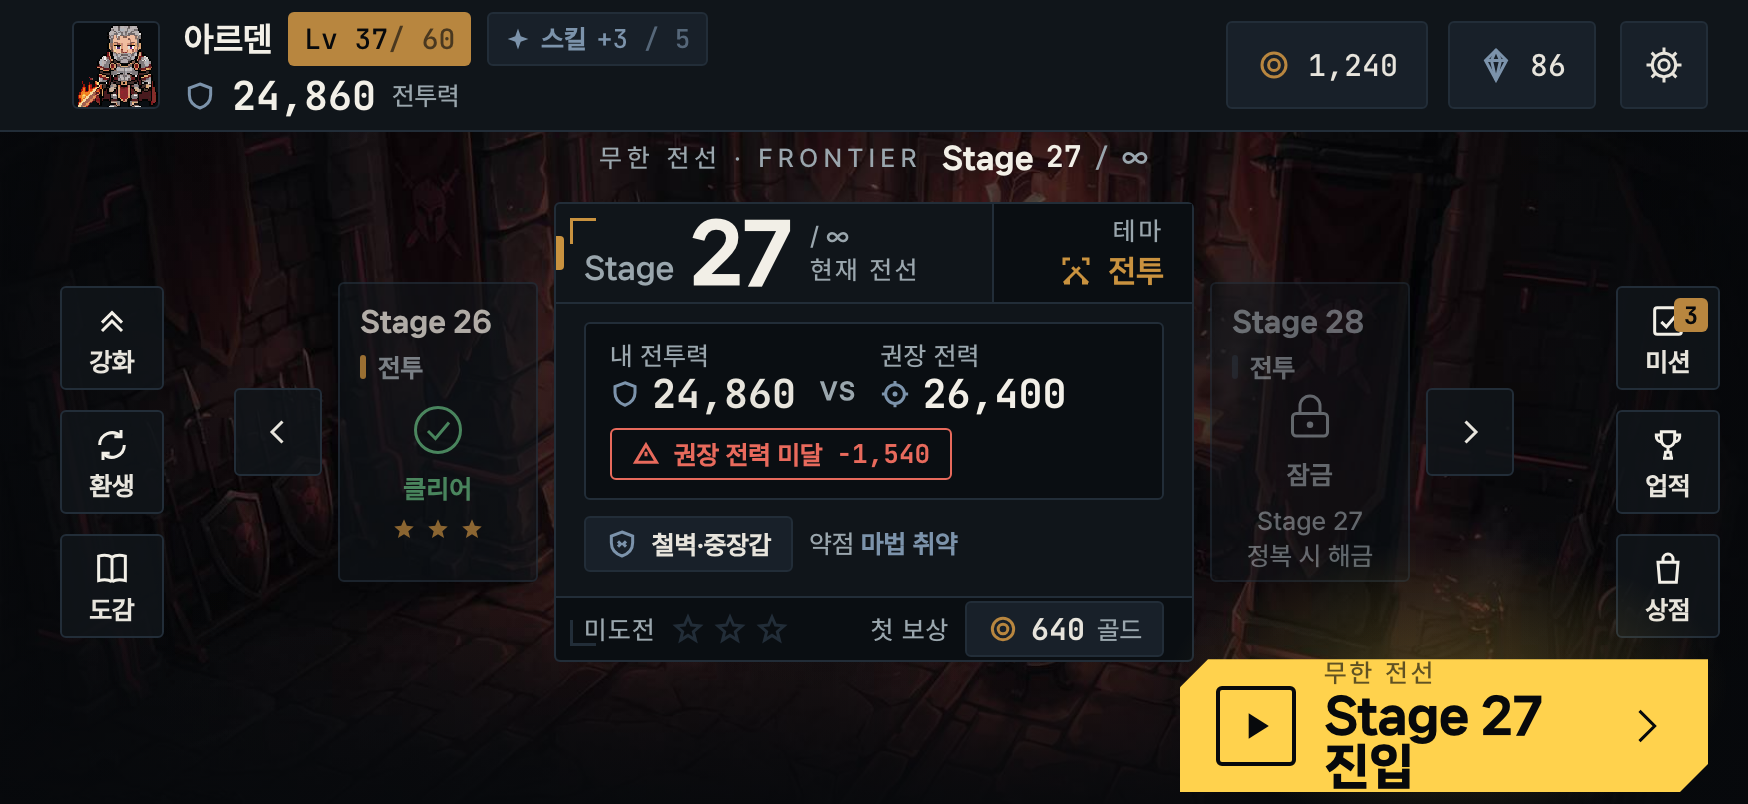
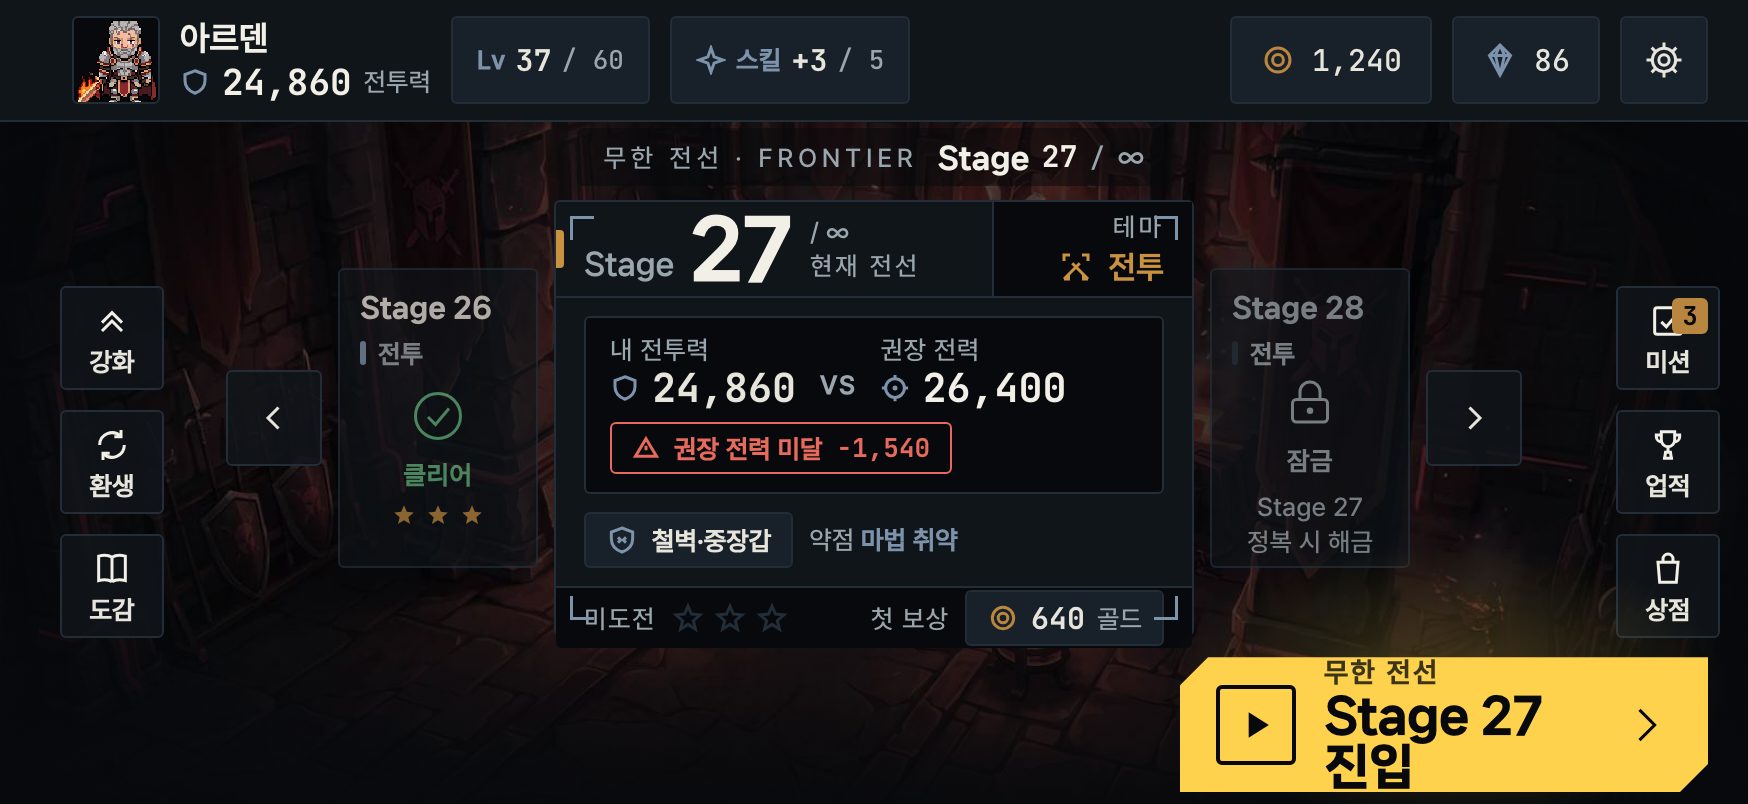
[mockup] MainHub v2 (검증 펀치리스트 8항 반영·상단바 통일·엘리베이션 규율)

diff --git a/mainhub-mockup.html b/mainhub-mockup.html
@@ -2,29 +2,44 @@
 <html lang="ko">
 <head>
 <meta charset="utf-8">
-<title>infinite-warfield — MainHub · device-native v1 (874×402 pt)</title>
+<title>infinite-warfield — MainHub · device-native v2 (874×402 pt)</title>
 <style>
 /* =====================================================================
-   infinite-warfield — MAIN HUB · DEVICE-NATIVE v1
+   infinite-warfield — MAIN HUB · DEVICE-NATIVE v2
    ui-artist · 2026-07-15
    ---------------------------------------------------------------------
-   WHY THIS FILE: r4(1080/2349px 저작)는 목업 px → 기기 pt 로 ×0.37 축소돼
-   기기에서 본문 6~9pt·터치 19~36pt 로 붕괴(스케일 갭의 근원). 이 파일은
-   그 갭을 0 으로 만든다 — 캔버스 = 874×402 pt = UITK Reference Resolution
-   = 기기 논리 pt(iPhone 12 Pro Max 시뮬 ScaleWithScreenSize Ref874×402 Match=1).
-   ★ 여기 모든 px = 1pt = Unity USS px = 기기 pt (변환 없음). 값 = 이 파일이 소스.
+   WHY v2: v1 을 두 독립검증(ui-critic 적대비평 + ux-reviewer) 펀치리스트로 교정.
+   새로 안 그리고 v1 을 고침. 유지=크림골드 단일비컨·정보위계·상태분기·매트플랫 v3·전장 dim.
 
-   내용/IA = mainhub-v3-r4.html 5요소 그대로(사이드레일·헤더·캐러셀·CTA +
-   카드 하단 정보행·잠금카드·카드 2단 헤더). 바뀐 건 좌표계뿐(px→pt·플로어 준수).
+   변경(펀치리스트 대응):
+   1) 상단바 통일 — Lv·스킬·재화·톱니 = 공통 44pt·단일 수직중심 스냅. Lv 솔리드
+      브론즈 채움 해제(Lv·스킬 둘 다 다크 raise+보더). 톱니 히트 44.
+   2) 엘리베이션 규율 — 오프토큰 #0A0E12 제거. 램프 4단만(base/panel/raise/line).
+      리세스 웰 = base(패널 한 단계 아래). 칩 깊이방향 전화면 단일(칩=raise).
+   3) 코너틱·브론즈 예산 — 코너틱 세트 통일(4코너 동일 색·두께=slate, 냉 HUD 오너먼트,
+      warm 예산 밖). 상단좌 브론즈 중복(틱 warm→slate) 해소, spine(tc)만 warm 마커.
+      브론즈 풀강도 6군데(badge·spine·theme·cleared별·reward코인·wallet코인).
+   4) 우측 플랭킹·페이저 — peek 딤 대칭(둘 다 .74, 잠금 딤은 콘텐츠색이 담당).
+      nav 화살표 48pt(≥48). 카드 lift 로 우하단 CTA 뭉침 완화.
+   5) 아이콘 — 라인 기본 통일. fill 예약=①CTA play(단일 액션 솔리드) ②별 상태
+      (채움=획득/윤곽=미획득) ③아이콘 내부 미세 디테일 점. 스킬 스파클 fill→line.
+      전 아이콘 stroke 1.5 non-scaling(동일 스트로크). 별=SVG stroke(폰트글리프 0).
+   6) 13pt 하한+대비 — badge 12→13. 분모(/60·/5) opacity 트릭 제거→dim 풀불투명(≥4.5).
+      FRONTIER 브레드크럼 뒤 미세 스크림(raw 전장 저대비 해소). CTA 캡션 14·대비↑.
+   7) 세로 리듬 — focus 카드 230→218, carousel lift → 카드 하단↔CTA 클리어런스 확보
+      (바닥에 안 붙임). 402pt 에 안 욱여넣음.
+   8) 세이프에어리어 — 배경 full-bleed. 액션(topbar·rail·carousel·cta)=엣지앵커
+      오버레이 컨테이너 + flex 자식(절대좌표 자식배치 금지). safe-area 인셋은
+      앵커 컨테이너 패딩으로(--safe-l = leading-edge 노치). ↓ [SAFE] 주석 참조.
 
-   AESTHETIC LOCK (art-bible v3 SoT · 아트디렉션 v3 '긴장/Tactical Field Ops'):
+   AESTHETIC LOCK (art-bible v3 SoT · '긴장/Tactical Field Ops'):
      base #07090C · 매트 플랫 · 1px 헤어라인 #222D38 · radius 3 · 깊이=명도 램프 ·
      크림골드 #FFD24D = 주CTA 단일 비컨 · 브론즈 ≤6 · 이모지 0.
      box-shadow / css-gradient / blur / clip-path = UITK 미지원 →
        이 목업의 그런 표현은 전부 [BAKE] 주석 = Unity 서 베이크드 스프라이트/9슬라이스.
 
    PT FLOORS (§ui-scale-contract): 본문 ≥15 · 라벨/부제 ≥13 · 터치 ≥44 · 컨트롤:텍스트 ≥2.4.
-   폰트-클립 금지: 텍스트 담는 요소엔 고정 height 금지 → min-height + padding(자연높이 따라 성장).
+   폰트-클립 금지: 텍스트 담는 요소엔 고정 height 금지 → min-height + padding.
    ===================================================================== */
 @font-face{font-family:'NanumSquareNeo';font-weight:800;font-style:normal;src:url('_fonts/NanumSquareNeoBL.woff2') format('woff2');font-display:block;}
 @font-face{font-family:'NanumSquareNeo';font-weight:700;font-style:normal;src:url('_fonts/NanumSquareNeoEB.woff2') format('woff2');font-display:block;}
@@ -32,7 +47,9 @@
 @font-face{font-family:'JetBrainsMono';font-weight:500;font-style:normal;src:url('_fonts/JetBrainsMono-500.woff2') format('woff2');font-display:block;}
 @font-face{font-family:'Pretendard';font-weight:500;font-style:normal;src:url('_fonts/Pretendard-Medium.woff2') format('woff2');font-display:block;}
 :root{
-  --base:#07090C; --panel:#10151A; --raise:#182029; --line:#222D38; --sunken:#0A0E12;
+  /* ★ 엘리베이션 램프 = 4단만 (art-bible §3). #0A0E12(오프토큰) 폐기. */
+  --base:#07090C; --panel:#10151A; --raise:#182029; --line:#222D38;
+  /* 리세스 웰(sunken slot) = 담는 컨테이너보다 한 단계 아래 명도. 패널(10151A) 안의 웰 = base(07090C). */
   --head:#F2EFE7; --body:#E7E4DC; --dim:#9AA6AD;
   --cta:#FFD24D; --cta-ink:#07090C; --bronze:#B8863F; --slate:#7C93AB;
   --threat:#E86A5C; --success:#5FB07A;
@@ -44,7 +61,7 @@
   --safe-l:16px; /* leading-edge inset(노치/라운드코너) · 1px=1pt */
 }
 *{box-sizing:border-box;margin:0;padding:0;}
-/* ★ 캔버스 = 874×402 pt. 1px = 1pt. r4 의 stage/scale 래퍼 폐기(스케일 해킹 제거). */
+/* ★ 캔버스 = 874×402 pt. 1px = 1pt = Unity USS px = 기기 pt. */
 html,body{width:874px;height:402px;overflow:hidden;background:#000;}
 body{font-family:var(--f-body);-webkit-font-smoothing:antialiased;text-rendering:optimizeLegibility;}
 .frame{position:relative;width:874px;height:402px;overflow:hidden;color:var(--body);background:var(--base);}
@@ -53,8 +70,19 @@ body{font-family:var(--f-body);-webkit-font-smoothing:antialiased;text-rendering
 .inf{font-family:var(--f-body);font-weight:500;}
 .ico{display:block;flex:none;}
 .ico svg{display:block;width:100%;height:100%;}
+/* 라인 기본 통일: 전 아이콘 stroke 1.5 non-scaling(렌더 크기 무관 동일 절대 스트로크). */
 .ico svg *{fill:none;stroke:currentColor;stroke-width:1.5;stroke-linecap:butt;stroke-linejoin:miter;vector-effect:non-scaling-stroke;}
+/* fill 예약(라인 기본의 예외 — 의미 있는 곳만): CTA play·별 획득상태·아이콘 내부 디테일 점. */
 .ico svg .fill{fill:currentColor;stroke:none;}
+
+/* [SAFE] ── SAFE-AREA / UITK 구조 전제 ──────────────────────────────────
+   배경(scene) = full-bleed(디바이스 끝까지). 액션 오버레이(topbar/rail/frontier/
+   carousel/cta)는 프레임 엣지에 "앵커"된 오버레이 컨테이너다. 이 목업의 position:
+   absolute + top/left/right/bottom 은 그 "엣지 앵커"의 목업 표현일 뿐 — Unity UITK
+   에선 각 오버레이가 부모(safe-area 인셋된 루트)에 flex/align 로 배치되고, 컨테이너
+   '내부' 자식은 전부 flex(절대 px 자식배치 아님). safe-area 인셋은 앵커 컨테이너의
+   padding(--safe-l 등)으로 흡수 → 어떤 노치/인셋 값에서도 구조적 무충돌.
+   ------------------------------------------------------------------ */
 
 /* ---- FULL-BLEED SCENE (Combat 테마 일러 · Stage27) ---- */
 .scene{position:absolute;inset:0;overflow:hidden;background:var(--base);}
@@ -73,67 +101,70 @@ body{font-family:var(--f-body);-webkit-font-smoothing:antialiased;text-rendering
 .vig-r{position:absolute;right:0;top:0;bottom:0;width:128px;pointer-events:none;
   background:linear-gradient(to left,rgba(7,9,12,0.70),transparent);}
 /* 중앙 포커스 암막 — 캐러셀 판독 확보 [BAKE 스프라이트] */
-.vig-focus{position:absolute;left:50%;top:222px;width:600px;height:320px;transform:translate(-50%,-50%);
+.vig-focus{position:absolute;left:50%;top:210px;width:600px;height:320px;transform:translate(-50%,-50%);
   pointer-events:none;background:radial-gradient(closest-side,rgba(7,9,12,0.56),transparent 80%);}
 
 /* ===================== TOPBAR (헤더 · 풀패널 미니바) ===================== */
+/* [SAFE] 엣지앵커 상단 오버레이. 내부 = flex(space-between). safe 인셋 = padding-left. */
 .topbar{position:absolute;top:0;left:0;right:0;min-height:60px;z-index:8;
   display:flex;align-items:center;justify-content:space-between;
-  padding:6px 20px 6px calc(20px + var(--safe-l));
+  padding:8px 20px 8px calc(20px + var(--safe-l));
   background:var(--panel);border-bottom:1px solid var(--line);}
-.cmdr{display:flex;align-items:center;gap:12px;}
-/* 프로필 = 마지막 사용 영웅(동적·목업=아르덴) · sunken 슬롯 라이트박스 + 1px 프레임.
+.cmdr{display:flex;align-items:center;gap:10px;}
+/* 프로필 = 마지막 사용 영웅(동적·목업=아르덴) · 리세스 웰(base) 라이트박스 + 1px 프레임.
    crop = arden idle/0 (120² · 불투명 bbox 27,30-84,90) head→torso 프레이밍. [터치 44 = 영웅선택 진입] */
 .avatar{position:relative;width:44px;height:44px;border:1px solid var(--line);border-radius:3px;
-  background:var(--sunken);overflow:hidden;flex:none;}
+  background:var(--base);overflow:hidden;flex:none;}
 .avatar img{position:absolute;width:84px;height:84px;left:-17px;top:-20px;image-rendering:pixelated;}
-.cmdr-txt{display:flex;flex-direction:column;gap:4px;}
-.cmdr-row1{display:flex;align-items:center;gap:8px;}
-.cmdr-name{font-family:var(--f-body);font-weight:700;font-size:17px;color:var(--head);line-height:1.1;}
-/* Lv = 스탯 레벨(max60) · 브론즈 pill(경강조). min-height=폰트-클립 방지(14pt→27). */
-.lv{display:inline-flex;align-items:center;min-height:27px;font-family:var(--f-mono);font-weight:500;font-size:14px;
-  color:var(--cta-ink);background:var(--bronze);border-radius:3px;padding:2px 8px;font-feature-settings:'tnum' 1;line-height:1.2;}
-.lv .mx{opacity:.62;}
-/* 스킬강화(max5) = 슬레이트 후퇴 chip. */
-.skl{display:inline-flex;align-items:center;gap:5px;min-height:27px;padding:2px 8px;border-radius:3px;
-  background:var(--raise);border:1px solid var(--line);}
-.skl .ico{width:13px;height:13px;color:var(--slate);}
-.skl .sk-l{font-family:var(--f-body);font-weight:700;font-size:13px;color:var(--slate);letter-spacing:.01em;line-height:1.2;}
-.skl .sv{font-family:var(--f-mono);font-weight:500;font-size:13px;color:var(--slate);font-feature-settings:'tnum' 1;line-height:1.2;}
-.skl .mx{opacity:.62;}
-.cmdr-row2{display:flex;align-items:center;gap:8px;}
-.cmdr-row2 .ico{width:16px;height:16px;color:var(--slate);}
-.cp{font-family:var(--f-mono);font-weight:700;font-size:20px;color:var(--head);font-feature-settings:'tnum' 1;line-height:1.1;}
-.cp-lbl{font-family:var(--f-body);font-weight:500;font-size:13px;color:var(--dim);align-self:flex-end;padding-bottom:2px;}
+/* identity = 이름 + 전투력(상시 노출 정체성 스탯). 2줄 블록이 44pt 칩과 공통 수직중심. */
+.cmdr-id{display:flex;flex-direction:column;justify-content:center;gap:2px;}
+.cmdr-name{font-family:var(--f-body);font-weight:700;font-size:17px;color:var(--head);line-height:1.15;}
+.cmdr-power{display:flex;align-items:center;gap:6px;}
+.cmdr-power .ico{width:15px;height:15px;color:var(--slate);}
+.cp{font-family:var(--f-mono);font-weight:700;font-size:18px;color:var(--head);font-feature-settings:'tnum' 1;line-height:1;}
+.cp-lbl{font-family:var(--f-body);font-weight:500;font-size:13px;color:var(--dim);align-self:flex-end;padding-bottom:1px;}
+/* ★ Lv·스킬 = 공통 44pt 칩(단일 수직중심). 둘 다 다크 raise+보더(솔리드 브론즈 해제).
+   칩 anatomy 통일: slate 키워드 + body 값 + dim 분모. 칩 깊이=raise(전화면 단일). */
+.lv,.skl{display:inline-flex;align-items:center;gap:5px;min-height:44px;padding:0 12px;border-radius:3px;
+  background:var(--raise);border:1px solid var(--line);flex:none;}
+.skl .ico{width:15px;height:15px;color:var(--slate);}
+.lv-k,.sk-l{font-family:var(--f-body);font-weight:700;font-size:13px;color:var(--slate);letter-spacing:.01em;line-height:1.2;}
+.lv-v,.sv{font-family:var(--f-mono);font-weight:700;font-size:15px;color:var(--body);font-feature-settings:'tnum' 1;line-height:1.2;}
+/* 분모(/60·/5) = dim 풀불투명 — opacity 트릭 폐기(대비 ≥4.5 확보). */
+.mx{font-family:var(--f-mono);font-weight:500;font-size:13px;color:var(--dim);font-feature-settings:'tnum' 1;line-height:1.2;}
 .wallet{display:flex;align-items:center;gap:10px;}
-/* 재화칩 [터치 44 = 상점/재화 진입] */
+/* 재화칩 [터치 44 = 상점/재화 진입] · 칩=raise 통일 */
 .cur{display:flex;align-items:center;gap:8px;min-height:44px;padding:0 14px;
   background:var(--raise);border:1px solid var(--line);border-radius:3px;}
 .cur .ico{width:18px;height:18px;}
 .cur.gold > .ico{color:var(--bronze);} .cur.ess > .ico{color:var(--slate);}
 .cur .val{font-family:var(--f-mono);font-weight:500;font-size:15px;color:var(--body);font-feature-settings:'tnum' 1;}
+/* 톱니 = 히트영역 44(시각 아이콘 20 유지) · 칩=raise 통일 */
 .gear{width:44px;height:44px;background:var(--raise);border:1px solid var(--line);border-radius:3px;
-  display:flex;align-items:center;justify-content:center;color:var(--body);margin-left:2px;}
+  display:flex;align-items:center;justify-content:center;color:var(--body);}
 .gear .ico{width:20px;height:20px;}
 
 /* ===================== SIDE RAILS (런처) ===================== */
+/* [SAFE] 엣지앵커 세로 오버레이. 내부 = flex column. rgba near-opaque = 5테마 배경무관 대비. */
 .rail{position:absolute;top:calc(60px + (402px - 60px)/2);transform:translateY(-50%);z-index:6;
   display:flex;flex-direction:column;align-items:center;gap:10px;}
 .rail.left{left:calc(14px + var(--safe-l));}
 .rail.right{right:14px;}
-/* 레일버튼 [터치 52 > 44 floor] · rgba near-opaque = 배경무관 대비. 아이콘+라벨 스택. */
+/* 레일버튼 [터치 52 > 44 floor] · 아이콘+라벨 스택. 씬 위 부유(near-opaque). */
 .railbtn{position:relative;width:52px;min-height:52px;background:rgba(16,21,26,0.86);border:1px solid var(--line);
   border-radius:3px;display:flex;flex-direction:column;align-items:center;justify-content:center;gap:3px;padding:4px 2px;}
 .railbtn .ico{width:20px;height:20px;color:var(--head);}
 .railbtn .rl{font-family:var(--f-body);font-weight:700;font-size:13px;color:var(--body);line-height:1.1;}
-.railbtn .badge{position:absolute;top:5px;right:5px;min-width:17px;height:17px;padding:0 4px;border-radius:3px;
+.railbtn .badge{position:absolute;top:5px;right:5px;min-width:18px;height:18px;padding:0 4px;border-radius:3px;
   background:var(--bronze);color:var(--cta-ink);display:flex;align-items:center;justify-content:center;
-  font-family:var(--f-mono);font-weight:700;font-size:12px;font-feature-settings:'tnum' 1;}
+  font-family:var(--f-mono);font-weight:700;font-size:13px;font-feature-settings:'tnum' 1;line-height:1;}
 
 /* ===================== FRONTIER LABEL (무한 전선 ∞ 진행) ===================== */
-.frontier{position:absolute;top:69px;left:50%;transform:translateX(-50%);z-index:6;
-  display:flex;flex-direction:row;align-items:baseline;gap:10px;}
-.frontier .fl{font-family:var(--f-body);font-weight:500;font-size:13px;letter-spacing:.20em;
+/* [BAKE] 브레드크럼 뒤 미세 스크림 = raw 전장 위 저대비 해소(5테마 전부 보장). Unity=정적 scrim 스프라이트. */
+.frontier{position:absolute;top:64px;left:50%;transform:translateX(-50%);z-index:6;
+  display:flex;flex-direction:row;align-items:baseline;gap:10px;
+  padding:5px 13px;border-radius:3px;background:rgba(7,9,12,0.52);}
+.frontier .fl{font-family:var(--f-body);font-weight:500;font-size:13px;letter-spacing:.18em;
   text-transform:uppercase;color:var(--dim);}
 .frontier .fv{display:flex;align-items:baseline;gap:6px;}
 .frontier .fv .nm{font-family:var(--f-disp);font-weight:800;font-size:15px;color:var(--head);letter-spacing:-.01em;line-height:1;}
@@ -142,19 +173,21 @@ body{font-family:var(--f-body);-webkit-font-smoothing:antialiased;text-rendering
 .frontier .fv .inf{font-size:15px;color:var(--dim);line-height:1;}
 
 /* ===================== CENTER — STAGE SELECT CAROUSEL ===================== */
-.carousel{position:absolute;top:216px;left:50%;transform:translate(-50%,-50%);z-index:6;
+/* [SAFE] 엣지앵커 중앙 오버레이. 내부 = flex row(nav·peek·focus·peek·nav) gap 8 대칭. */
+.carousel{position:absolute;top:209px;left:50%;transform:translate(-50%,-50%);z-index:6;
   display:flex;align-items:center;justify-content:center;gap:8px;}
-/* nav chevrons [터치 44] */
-.nav{width:44px;height:44px;flex:none;background:rgba(16,21,26,0.86);border:1px solid var(--line);border-radius:3px;
+/* nav chevrons [터치 48 ≥48] · 카드 엣지에 gap 8 로 일관 앵커(양측 동일). */
+.nav{width:48px;height:48px;flex:none;background:rgba(16,21,26,0.86);border:1px solid var(--line);border-radius:3px;
   display:flex;align-items:center;justify-content:center;color:var(--body);}
 .nav .ico{width:18px;height:18px;}
 
-/* ---- PEEK CARD (인접 스테이지 · 작게·후퇴) ---- */
+/* ---- PEEK CARD (인접 스테이지 · 작게·후퇴 · 딤 대칭) ---- */
 .peek{position:relative;width:100px;height:150px;background:rgba(16,21,26,0.80);border:1px solid var(--line);
   border-radius:3px;padding:12px 10px;display:flex;flex-direction:column;overflow:hidden;}
 .peek .pz{font-family:var(--f-disp);font-weight:800;font-size:14px;color:var(--body);letter-spacing:-.01em;line-height:1;}
 .peek .pt{display:flex;align-items:center;gap:6px;margin-top:6px;}
-.peek .pt .spine{width:3px;height:12px;background:var(--tc);border-radius:2px;}
+/* peek 테마 스핀 = 중립(slate) — warm 테마 액센트(tc)는 FOCUS(현재 스테이지) 전용(위계·브론즈 예산). */
+.peek .pt .spine{width:3px;height:12px;background:var(--slate);border-radius:2px;}
 .peek .pt .ptx{font-family:var(--f-body);font-weight:700;font-size:13px;color:var(--dim);}
 .peek .pbody{flex:1;display:flex;flex-direction:column;align-items:center;justify-content:center;gap:7px;}
 .peek .pstate-ico{width:30px;height:30px;}
@@ -162,29 +195,31 @@ body{font-family:var(--f-body);-webkit-font-smoothing:antialiased;text-rendering
 .peek .phint{font-family:var(--f-body);font-weight:500;font-size:13px;color:var(--dim);text-align:center;line-height:1.35;}
 .peek .pstars{display:flex;gap:4px;justify-content:center;}
 .peek .pstars .ico{width:13px;height:13px;}
+/* ★ 딤 대칭: cleared·locked 동일 카드 불투명(.74). 잠금의 "딤"은 콘텐츠색(dim)이 담당. */
 .peek.cleared{opacity:.74;}
 .peek.cleared .pstate-ico{color:var(--success);}
 .peek.cleared .pstate-lbl{color:var(--success);}
 .peek.cleared .pstars .ico{color:var(--bronze);}
-.peek.locked{opacity:.60;}
+.peek.locked{opacity:.74;}
 .peek.locked .pz{color:var(--dim);}
 .peek.locked .pt .spine{background:var(--line);}
 .peek.locked .pstate-ico{color:var(--dim);}
 .peek.locked .pstate-lbl{color:var(--dim);}
 
-/* ---- FOCUS CARD (프론티어 스테이지 · 풀 정보 · 초점 앵커 2.8× 폭) ---- */
-.focus{position:relative;width:320px;height:230px;background:var(--panel);border:1px solid var(--line);
+/* ---- FOCUS CARD (프론티어 스테이지 · 풀 정보 · 초점 앵커 3.2× 폭 · 218pt) ---- */
+.focus{position:relative;width:320px;height:218px;background:var(--panel);border:1px solid var(--line);
   border-radius:3px;display:flex;flex-direction:column;}
-/* HUD 코너 틱 데코(오너먼트 절제·앵귤러) — 좌측(tc 스핀 액센트 측)만 = 의도적 비대칭 [BAKE 또는 border] */
-.focus .tick{position:absolute;width:13px;height:13px;pointer-events:none;}
-.focus .tick.tl{top:7px;left:7px;border-top:1.5px solid var(--tc);border-left:1.5px solid var(--tc);}
-.focus .tick.tr{top:7px;right:7px;border-top:1.5px solid var(--tc);border-right:1.5px solid var(--tc);}
-.focus .tick.bl{bottom:7px;left:7px;border-bottom:1.5px solid var(--line);border-left:1.5px solid var(--line);}
-.focus .tick.br{bottom:7px;right:7px;border-bottom:1.5px solid var(--line);border-right:1.5px solid var(--line);}
+/* HUD 코너 틱 세트 = 4코너 동일 색(slate)·두께(1.5) — 냉 HUD 오너먼트(warm 예산 밖·배경 후퇴색).
+   [BAKE 또는 border] warm 마커는 좌측 spine(tc) 단독(상단좌 브론즈 중복 해소). */
+.focus .tick{position:absolute;width:12px;height:12px;pointer-events:none;}
+.focus .tick.tl{top:7px;left:7px;border-top:1.5px solid var(--slate);border-left:1.5px solid var(--slate);}
+.focus .tick.tr{top:7px;right:7px;border-top:1.5px solid var(--slate);border-right:1.5px solid var(--slate);}
+.focus .tick.bl{bottom:7px;left:7px;border-bottom:1.5px solid var(--slate);border-left:1.5px solid var(--slate);}
+.focus .tick.br{bottom:7px;right:7px;border-bottom:1.5px solid var(--slate);border-right:1.5px solid var(--slate);}
 /* header row (2단: zone № + 테마 세그먼트) */
-.f-head{display:flex;align-items:stretch;min-height:50px;border-bottom:1px solid var(--line);}
+.f-head{display:flex;align-items:stretch;min-height:48px;border-bottom:1px solid var(--line);}
 .f-zone{position:relative;display:flex;align-items:center;gap:10px;padding:0 14px;flex:1;}
-.f-zone .spine{position:absolute;left:0;top:16px;bottom:16px;width:4px;background:var(--tc);border-radius:0 2px 2px 0;}
+.f-zone .spine{position:absolute;left:0;top:14px;bottom:14px;width:4px;background:var(--tc);border-radius:0 2px 2px 0;}
 .f-zone .zn{display:flex;align-items:baseline;gap:7px;}
 .f-zone .zn .zpre{font-family:var(--f-disp);font-weight:700;font-size:15px;color:var(--dim);letter-spacing:-.01em;line-height:1;}
 /* znum = 초점 앵커 대형 수치. ⚠ Unity NanumSquareNeo digit '8' 글리프 깨짐 이슈(보고 플래그) — 목업은 정상 렌더. */
@@ -194,15 +229,15 @@ body{font-family:var(--f-body);-webkit-font-smoothing:antialiased;text-rendering
 .f-zone .zd .zk .inf{font-family:var(--f-body);color:var(--dim);}
 .f-zone .zd .zt{font-family:var(--f-body);font-weight:500;font-size:13px;letter-spacing:.10em;color:var(--dim);line-height:1.1;}
 .f-theme{display:flex;flex-direction:column;align-items:flex-end;justify-content:center;gap:5px;
-  padding:0 14px;background:var(--sunken);border-left:1px solid var(--line);width:100px;}
+  padding:0 14px;background:var(--base);border-left:1px solid var(--line);width:100px;}
 .f-theme .th-k{font-family:var(--f-body);font-weight:500;font-size:13px;letter-spacing:.12em;color:var(--dim);line-height:1;}
 .f-theme .th-row{display:flex;align-items:center;gap:7px;}
 .f-theme .th-ico{width:18px;height:18px;color:var(--tc);}
 .f-theme .th-lbl{font-family:var(--f-disp);font-weight:700;font-size:15px;color:var(--tc);letter-spacing:-.01em;line-height:1;}
 /* body */
-.f-body{flex:1;padding:9px 14px;display:flex;flex-direction:column;gap:8px;}
-/* power comparison — sunken slot(리세스) */
-.pwr{background:var(--sunken);border:1px solid var(--line);border-radius:3px;padding:9px 12px;
+.f-body{flex:1;padding:9px 14px;display:flex;flex-direction:column;justify-content:center;gap:9px;}
+/* power comparison — 리세스 웰(base = 패널 한 단계 아래) */
+.pwr{background:var(--base);border:1px solid var(--line);border-radius:3px;padding:9px 12px;
   display:flex;flex-direction:column;gap:7px;}
 .pwr .row{display:flex;align-items:center;gap:12px;}
 .pwr .col{display:flex;flex-direction:column;gap:3px;}
@@ -225,9 +260,9 @@ body{font-family:var(--f-body);-webkit-font-smoothing:antialiased;text-rendering
 .threat .tbadge .tl{font-family:var(--f-body);font-weight:700;font-size:13px;color:var(--body);line-height:1;}
 .threat .thint{font-family:var(--f-body);font-weight:500;font-size:13px;color:var(--dim);line-height:1.2;}
 .threat .thint b{color:var(--slate);font-weight:700;}
-/* footer: 미도전 ☆☆☆ + 첫 클리어 보상 (r4 카드 하단 정보행) */
-.f-foot{display:flex;align-items:center;justify-content:space-between;padding:0 14px;min-height:32px;
-  border-top:1px solid var(--line);background:var(--sunken);border-radius:0 0 3px 3px;}
+/* footer: 미도전 ☆☆☆ + 첫 클리어 보상 */
+.f-foot{display:flex;align-items:center;justify-content:space-between;padding:0 14px;min-height:31px;
+  border-top:1px solid var(--line);background:var(--base);border-radius:0 0 3px 3px;}
 .f-stars{display:flex;align-items:center;gap:8px;}
 .f-stars .sk{font-family:var(--f-body);font-weight:500;font-size:13px;letter-spacing:.06em;color:var(--dim);}
 .f-stars .sset{display:flex;gap:5px;}
@@ -242,7 +277,7 @@ body{font-family:var(--f-body);-webkit-font-smoothing:antialiased;text-rendering
 .f-reward .rchip .ru{font-family:var(--f-body);font-weight:500;font-size:13px;color:var(--dim);}
 
 /* ===================== CTA (우하단 지배 비컨) ===================== */
-/* [BAKE] CTA 뒤 골드 글로우 헤일로 = radial 스프라이트(CSS glow 아님·주스 P7). */
+/* [SAFE] 엣지앵커 우하단 오버레이. [BAKE] 뒤 골드 글로우 헤일로 = radial 스프라이트(CSS glow 아님·주스 P7). */
 .cta-glow{position:absolute;right:-30px;bottom:-30px;width:360px;height:180px;z-index:6;pointer-events:none;
   background:radial-gradient(closest-side,rgba(255,210,77,0.24),transparent 78%);}
 /* CTA = 단일 최고 채도/엘리베이션 비컨. 앵귤러 컷(pill 금지). [BAKE] clip-path → 9슬라이스 컷코너 스프라이트. */
@@ -253,8 +288,9 @@ body{font-family:var(--f-body);-webkit-font-smoothing:antialiased;text-rendering
   align-items:center;justify-content:center;flex:none;}
 .cta .play .ico{width:22px;height:22px;color:var(--cta-ink);}
 .cta .ctxt{display:flex;flex-direction:column;gap:3px;}
-.cta .ctxt .m{font-family:var(--f-body);font-weight:500;font-size:13px;letter-spacing:.12em;
-  color:rgba(7,9,12,0.64);line-height:1;}
+/* 캡션 14pt·대비↑(잉크 0.78) — 골드 위 저대비 해소 */
+.cta .ctxt .m{font-family:var(--f-body);font-weight:700;font-size:14px;letter-spacing:.08em;
+  color:rgba(7,9,12,0.78);line-height:1;}
 .cta .ctxt .big{font-family:var(--f-disp);font-weight:800;font-size:24px;letter-spacing:-.02em;line-height:1.05;color:var(--cta-ink);}
 .cta .go{margin-left:auto;display:flex;align-items:center;}
 .cta .go .ico{width:26px;height:26px;color:var(--cta-ink);}
@@ -267,18 +303,19 @@ body{font-family:var(--f-body);-webkit-font-smoothing:antialiased;text-rendering
   <div class="vig"></div><div class="vig-top"></div><div class="vig-bot"></div><div class="vig-l"></div><div class="vig-r"></div>
   <div class="vig-focus"></div>
 
-  <!-- ============ TOPBAR (헤더 · 초상+Lv+스킬+전투력 · 재화 · 설정) ============ -->
+  <!-- ============ TOPBAR (헤더 · 단일 44pt 베이스라인) ============ -->
   <div class="topbar">
    <div class="cmdr">
     <div class="avatar"><img alt="마지막 사용 영웅 · 아르덴" src="avatar-arden.png"></div>
-    <div class="cmdr-txt">
-     <div class="cmdr-row1">
-      <span class="cmdr-name">아르덴</span>
-      <span class="lv">Lv 37 <span class="mx">/ 60</span></span>
-      <span class="skl"><span class="ico"><svg viewBox="0 0 24 24"><path class="fill" d="M12 2.4 L14.5 9.5 L21.6 12 L14.5 14.5 L12 21.6 L9.5 14.5 L2.4 12 L9.5 9.5 Z"/></svg></span><span class="sk-l">스킬</span><span class="sv">+3 <span class="mx">/ 5</span></span></span>
-     </div>
-     <div class="cmdr-row2"><span class="ico"><svg viewBox="0 0 24 24"><path d="M12 3 L20 6 V11 C20 16 16.4 19.4 12 21 C7.6 19.4 4 16 4 11 V6 Z"/></svg></span><span class="cp mono">24,860</span><span class="cp-lbl">전투력</span></div>
+    <div class="cmdr-id">
+     <span class="cmdr-name">아르덴</span>
+     <span class="cmdr-power">
+      <span class="ico"><svg viewBox="0 0 24 24"><path d="M12 3 L20 6 V11 C20 16 16.4 19.4 12 21 C7.6 19.4 4 16 4 11 V6 Z"/></svg></span>
+      <span class="cp mono">24,860</span><span class="cp-lbl">전투력</span>
+     </span>
     </div>
+    <div class="lv"><span class="lv-k">Lv</span><span class="lv-v">37</span><span class="mx">/ 60</span></div>
+    <div class="skl"><span class="ico"><svg viewBox="0 0 24 24"><path d="M12 2.4 L14.5 9.5 L21.6 12 L14.5 14.5 L12 21.6 L9.5 14.5 L2.4 12 L9.5 9.5 Z"/></svg></span><span class="sk-l">스킬</span><span class="sv">+3</span><span class="mx">/ 5</span></div>
    </div>
    <div class="wallet">
     <div class="cur gold"><span class="ico"><svg viewBox="0 0 24 24"><circle cx="12" cy="12" r="8"/><circle cx="12" cy="12" r="3.6"/></svg></span><span class="val mono mono5">1,240</span></div>
@@ -301,7 +338,7 @@ body{font-family:var(--f-body);-webkit-font-smoothing:antialiased;text-rendering
    <div class="railbtn"><span class="ico"><svg viewBox="0 0 24 24"><path d="M6 8 H18 L17 20 H7 Z"/><path d="M9 8 V6 A3 3 0 0 1 15 6 V8"/></svg></span><span class="rl">상점</span></div>
   </div>
 
-  <!-- ============ FRONTIER LABEL (무한 전선 ∞) ============ -->
+  <!-- ============ FRONTIER LABEL (무한 전선 ∞ · 뒤 스크림) ============ -->
   <div class="frontier">
    <span class="fl">무한 전선 · FRONTIER</span>
    <span class="fv"><span class="nm">Stage</span><span class="fk">27</span><span class="fd">/</span><span class="inf">&#8734;</span></span>
@@ -328,7 +365,7 @@ body{font-family:var(--f-body);-webkit-font-smoothing:antialiased;text-rendering
 
    <!-- FOCUS = Stage 27 (프론티어 · 풀 정보) -->
    <div class="focus">
-    <span class="tick tl"></span><span class="tick bl"></span>
+    <span class="tick tl"></span><span class="tick tr"></span><span class="tick bl"></span><span class="tick br"></span>
     <div class="f-head">
      <div class="f-zone">
       <span class="spine"></span>
@@ -388,7 +425,7 @@ body{font-family:var(--f-body);-webkit-font-smoothing:antialiased;text-rendering
     </div>
    </div>
 
-   <!-- RIGHT PEEK = Stage 28 (잠금 · 자물쇠+해금조건+디밍) -->
+   <!-- RIGHT PEEK = Stage 28 (잠금 · 자물쇠+해금조건+딤 콘텐츠) -->
    <div class="peek locked">
     <div class="pz">Stage 28</div>
     <div class="pt"><span class="spine"></span><span class="ptx">전투</span></div>